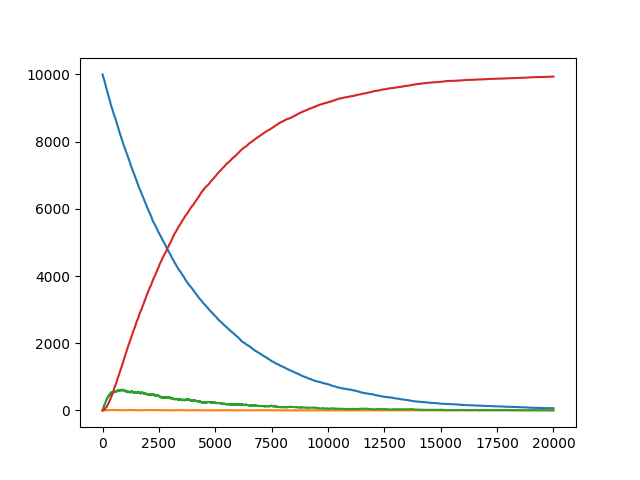
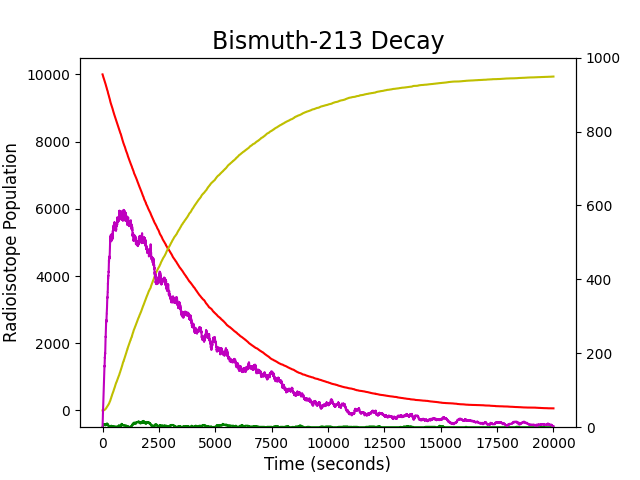
v2

diff --git a/PS-3/prob1.py b/PS-3/prob1.py
@@ -21,16 +21,16 @@ def matrixdot(N,A,B):
     return (enddot - startdot)
 
 
-N_max = 100
-steps = int(N_max/20)
+N_max = 200
+steps = int(N_max/10)
 matrix_sizes = np.arange(10,N_max,steps)
 timex_avg = np.zeros(len(matrix_sizes))
 timedot_avg = np.zeros(len(matrix_sizes))
-iavg = 1
+iavg = 5
 for i,N in enumerate(matrix_sizes):
-    A = np.random.rand(N,N)
-    B = np.random.rand(N,N)
-    C = np.random.rand(N,N)
+    A = np.random.rand(N,N)-1
+    B = np.random.rand(N,N)-1
+    C = np.random.rand(N,N)-1
     timex = 0
     timedot = 0
     for a in range(iavg):
@@ -49,7 +49,8 @@ calcx.set_ylim(0, max(timex_avg) * 1.1)
 calcdot = calcx.twinx()  # Instantiate a second axes that shares the same x-axis
 calcdot.scatter(matrix_sizes, timedot_avg, color='g', marker='o', label='NumPy Dot Product')
 calcdot.set_ylim(0, max(timedot_avg) * 1.1) 
-
+calcdot.set_yscale('log')
+calcdot.set_ylim(1e-5, max(timedot_avg) * 2)
 # Add legends
 
 calcx.legend(loc='upper left')

diff --git a/PS-3/prob2.py b/PS-3/prob2.py
@@ -61,13 +61,19 @@ def isodecays():
 
 isocount = isodecays()
 
-plt.plot(tpoints,isocount[:,0],label = 'B213')
-plt.plot(tpoints,isocount[:,1],label = 'B213')
-plt.plot(tpoints,isocount[:,2],label = 'B213')
-plt.plot(tpoints,isocount[:,3],label = 'B213')
+
+fig, major = plt.subplots()
+plt.title('Bismuth-213 Decay', fontsize=17)
+plt.xlabel('Time (seconds)', fontsize=12)
+plt.ylabel('Radioisotope Population', fontsize=12)
+plt.plot(tpoints,isocount[:,0],label = 'Bi213', color = 'r')
+plt.plot(tpoints,isocount[:,3],label = 'Bi209', color = 'b')
+
+minor = major.twinx()
+minor.set_ylim(0,1000)
+plt.plot(tpoints,isocount[:,1],label = 'Tl209', color = 'g')
+plt.plot(tpoints,isocount[:,2],label = 'Pb209', color = 'm')
+
+#LEGEND NEEDED
+
 plt.savefig('isocount')
-
-
-    
-
-

diff --git a/PS-3/prob3.py b/PS-3/prob3.py
@@ -1,8 +1,1 @@
 import numpy as np
-
-#function of N how the mean, variance, skewness, and kurtosis of the distribution change.
-
-#Problem simplifies from 2, details in book
-
-N = 
-for i in range (N)
